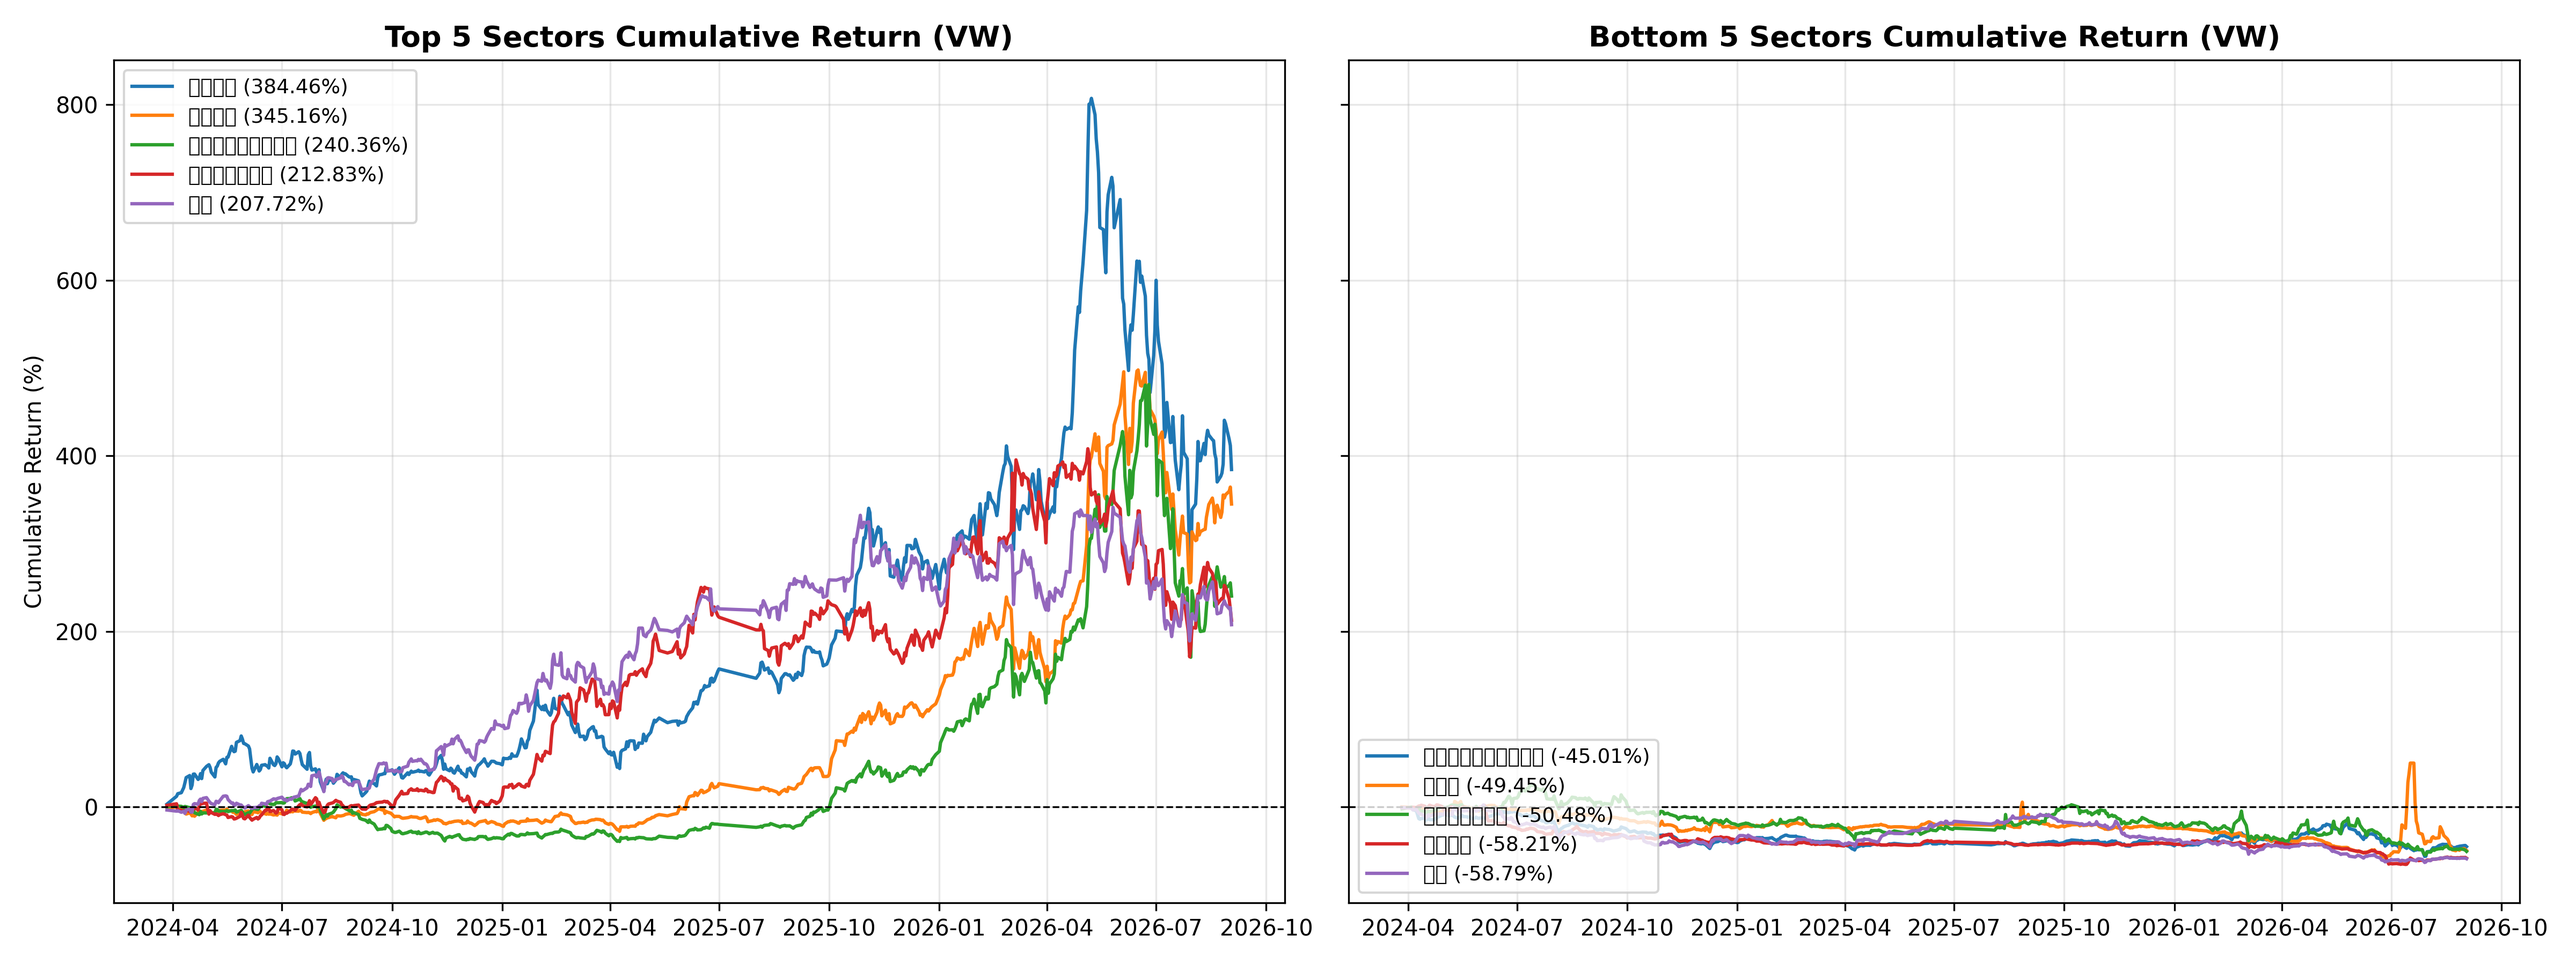
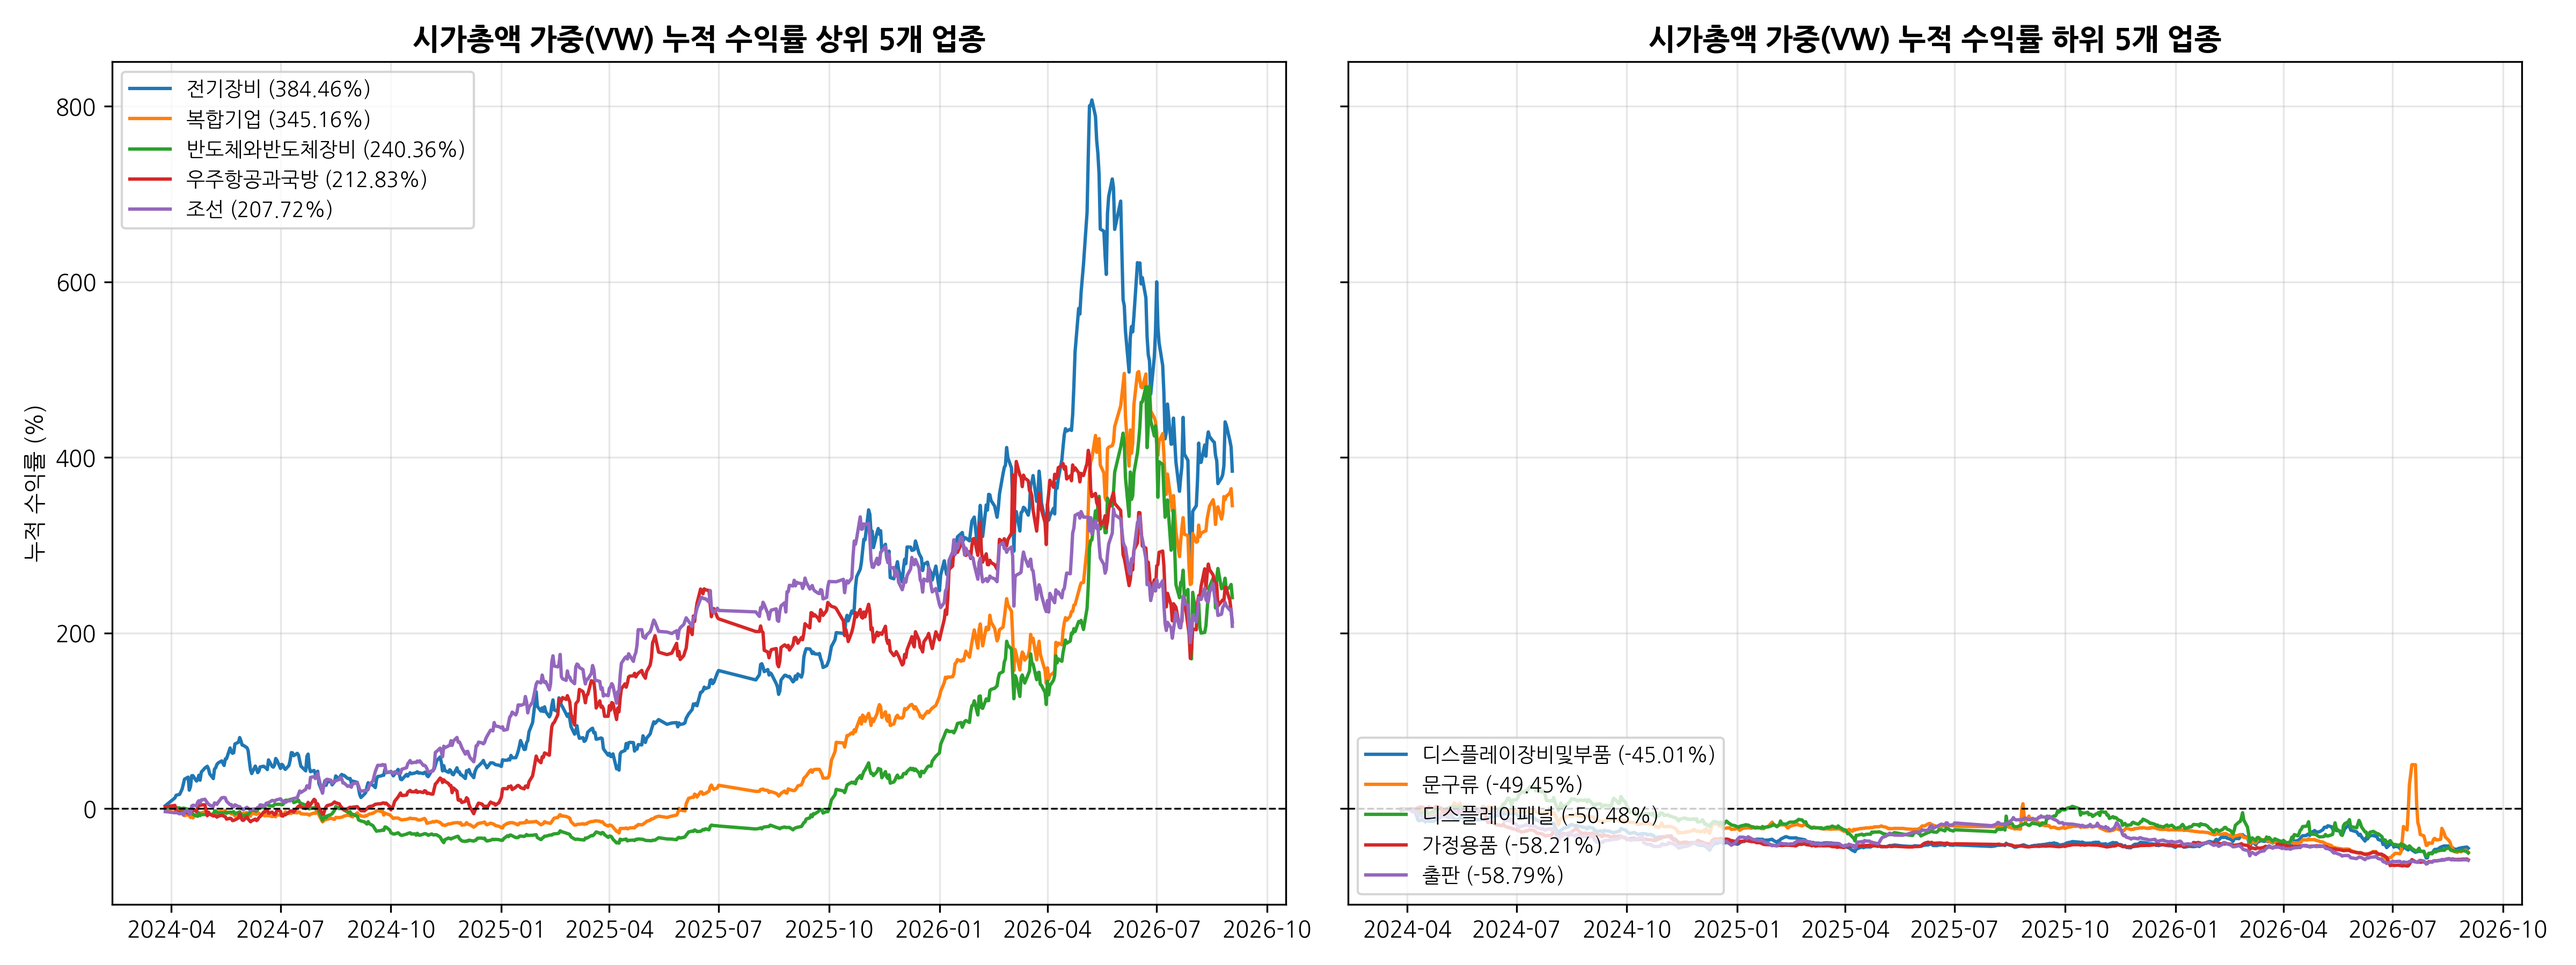
Fix Korean font rendering in sector_cum_returns.png

diff --git a/calc_cum_returns.py b/calc_cum_returns.py
@@ -1,42 +1,50 @@
+import os
+import urllib.request
 import pandas as pd
 import matplotlib.pyplot as plt
+import matplotlib.font_manager as fm
 
-plt.rcParams['axes.unicode_minus'] = False
+def set_korean_font():
+    font_candidates = [
+        '/usr/share/fonts/truetype/nanum/NanumGothic.ttf',
+        '/usr/share/fonts/nanum/NanumGothic.ttf',
+        '/usr/share/fonts/truetype/noto/NotoSansCJK-Regular.ttc',
+        'NanumGothic.ttf'
+    ]
+    font_path = next((p for p in font_candidates if os.path.exists(p)), None)
+    if font_path is None:
+        url = "https://github.com/google/fonts/raw/main/ofl/nanumgothic/NanumGothic-Regular.ttf"
+        font_path = "NanumGothic.ttf"
+        urllib.request.urlretrieve(url, font_path)
+    fm.fontManager.addfont(font_path)
+    font_name = fm.FontProperties(fname=font_path).get_name()
+    plt.rc('font', family=font_name)
+    plt.rcParams['axes.unicode_minus'] = False
 
-# 1. 원본 CSV 로드
+set_korean_font()
+
 vw_raw = pd.read_csv('sector_daily_returns_vw.csv')
 ew_raw = pd.read_csv('sector_daily_returns_ew.csv')
 
-print("VW 컬럼 목록:", vw_raw.columns.tolist())
-print("EW 컬럼 목록:", ew_raw.columns.tolist(), "\n")
-
-# 2. Long format(Date, Sector, Return) -> Wide format(날짜 x 업종) 자동 변환 함수
 def to_wide_returns(df):
     cols = df.columns.tolist()
-    # 날짜 컬럼 찾기 (보통 첫 번째 컬럼이나 'Date' 포함 컬럼)
     date_col = next((c for c in cols if 'date' in c.lower()), cols[0])
-    # 업종 컬럼 찾기 (문자열 컬럼 중 날짜 제외)
     sector_col = next((c for c in cols if 'sector' in c.lower()), None)
-    
     if sector_col is not None:
-        # 수익률 값 컬럼 찾기
         val_col = next((c for c in cols if 'return' in c.lower()), [c for c in cols if c not in [date_col, sector_col]][0])
         df[date_col] = pd.to_datetime(df[date_col])
         df[val_col] = pd.to_numeric(df[val_col].astype(str).str.replace('%', '', regex=False), errors='coerce')
         wide = df.pivot_table(index=date_col, columns=sector_col, values=val_col)
     else:
-        # 이미 Wide format인 경우
         df[date_col] = pd.to_datetime(df[date_col])
         wide = df.set_index(date_col)
         for c in wide.columns:
             wide[c] = pd.to_numeric(wide[c].astype(str).str.replace('%', '', regex=False), errors='coerce')
-            
     return wide.sort_index()
 
 vw_daily = to_wide_returns(vw_raw)
 ew_daily = to_wide_returns(ew_raw)
 
-# 3. 퍼센트(%) 단위 자동 보정 및 누적 수익률 계산: (1 + r_t)의 누적곱 - 1
 if vw_daily.abs().max().max() > 1:
     vw_daily = vw_daily / 100.0
 if ew_daily.abs().max().max() > 1:
@@ -45,7 +53,6 @@ if ew_daily.abs().max().max() > 1:
 vw_cum = (1 + vw_daily.fillna(0)).cumprod() - 1
 ew_cum = (1 + ew_daily.fillna(0)).cumprod() - 1
 
-# 4. 전체 기간 최종 누적 수익률(%) 요약표 및 시계열 저장
 summary = pd.DataFrame({
     'VW_Cum_Return(%)': (vw_cum.iloc[-1] * 100).round(2),
     'EW_Cum_Return(%)': (ew_cum.iloc[-1] * 100).round(2),
@@ -56,12 +63,6 @@ summary.to_csv('sector_cumulative_returns_summary.csv')
 vw_cum.to_csv('sector_cum_returns_vw_series.csv')
 ew_cum.to_csv('sector_cum_returns_ew_series.csv')
 
-print("=== 업종별 최종 누적 수익률 상위 5개 (VW 기준) ===")
-print(summary.head(5))
-print("\n=== 업종별 최종 누적 수익률 하위 5개 (VW 기준) ===")
-print(summary.tail(5))
-
-# 5. 시각화 (상위 5개 & 하위 5개 업종 누적 수익률 추이)
 top5_sectors = summary.head(5).index
 bot5_sectors = summary.tail(5).index
 
@@ -70,18 +71,18 @@ fig, axes = plt.subplots(1, 2, figsize=(16, 6), sharey=True)
 for sec in top5_sectors:
     axes[0].plot(vw_cum.index, vw_cum[sec] * 100, label=f"{sec} ({summary.loc[sec, 'VW_Cum_Return(%)']}%)")
 axes[0].axhline(0, color='black', linestyle='--', linewidth=0.8)
-axes[0].set_title('Top 5 Sectors Cumulative Return (VW)', fontsize=13, fontweight='bold')
-axes[0].set_ylabel('Cumulative Return (%)')
+axes[0].set_title('시가총액 가중(VW) 누적 수익률 상위 5개 업종', fontsize=13, fontweight='bold')
+axes[0].set_ylabel('누적 수익률 (%)')
 axes[0].legend(loc='upper left', fontsize=9)
 axes[0].grid(alpha=0.3)
 
 for sec in bot5_sectors:
     axes[1].plot(vw_cum.index, vw_cum[sec] * 100, label=f"{sec} ({summary.loc[sec, 'VW_Cum_Return(%)']}%)")
 axes[1].axhline(0, color='black', linestyle='--', linewidth=0.8)
-axes[1].set_title('Bottom 5 Sectors Cumulative Return (VW)', fontsize=13, fontweight='bold')
+axes[1].set_title('시가총액 가중(VW) 누적 수익률 하위 5개 업종', fontsize=13, fontweight='bold')
 axes[1].legend(loc='lower left', fontsize=9)
 axes[1].grid(alpha=0.3)
 
 plt.tight_layout()
 plt.savefig('sector_cum_returns.png', dpi=300)
-print("\n[완료] sector_cumulative_returns_summary.csv, sector_cum_returns_vw_series.csv, sector_cum_returns_ew_series.csv, sector_cum_returns.png 생성 완료")
+print("완료")
